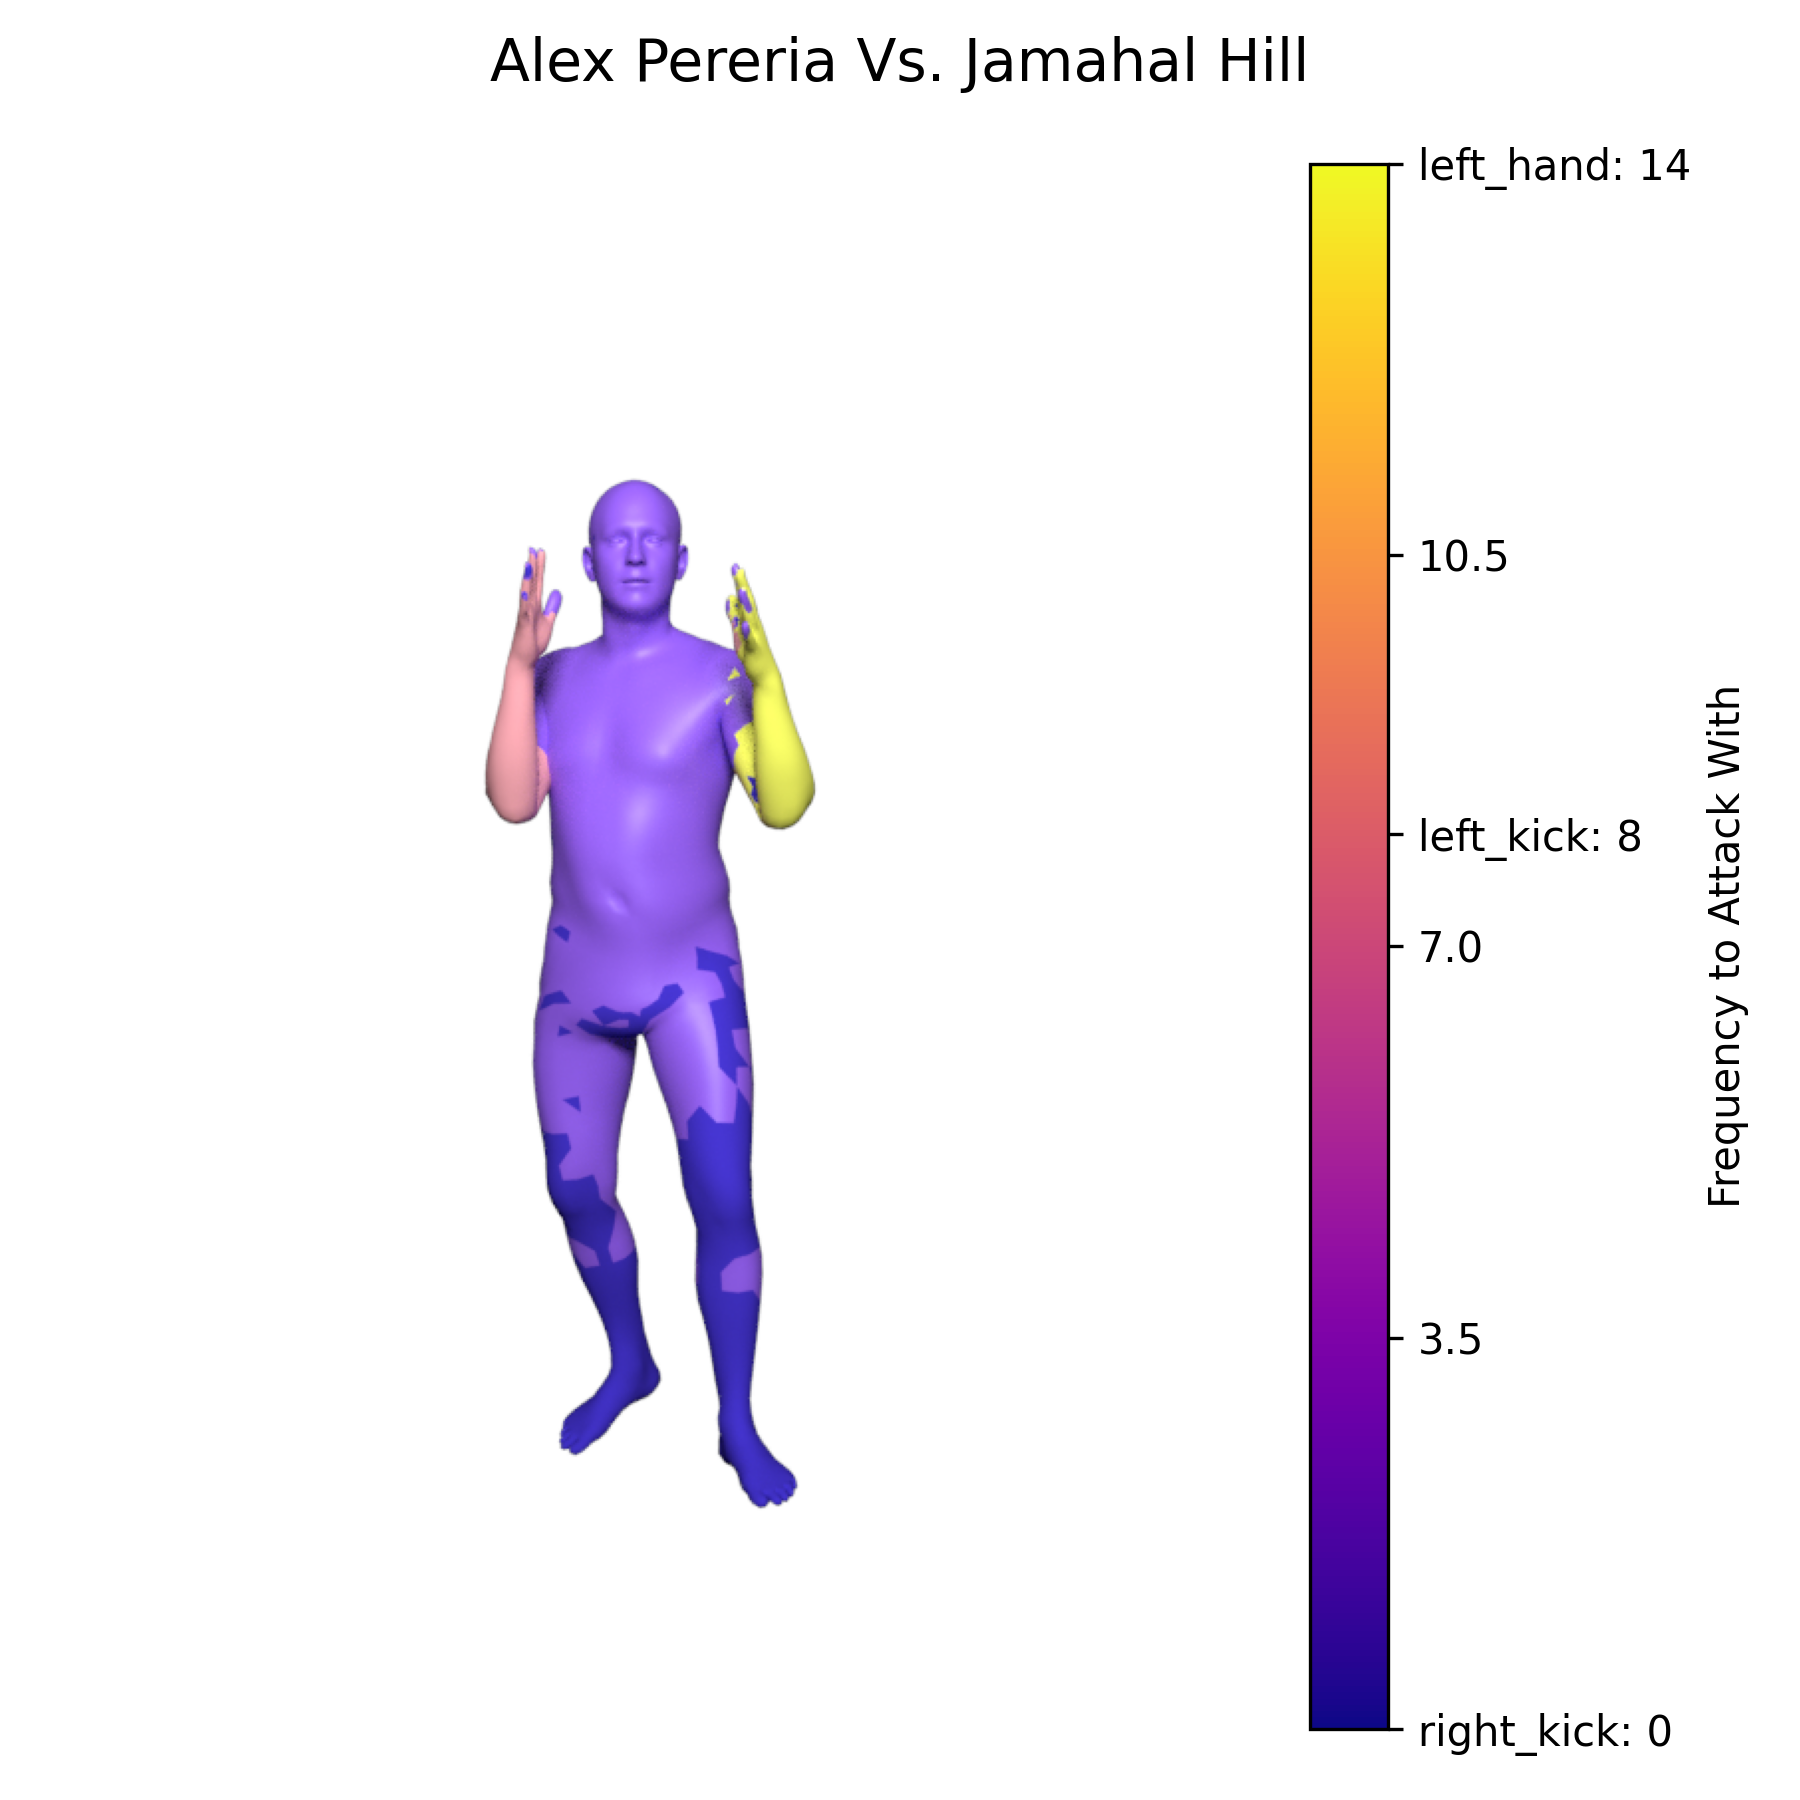
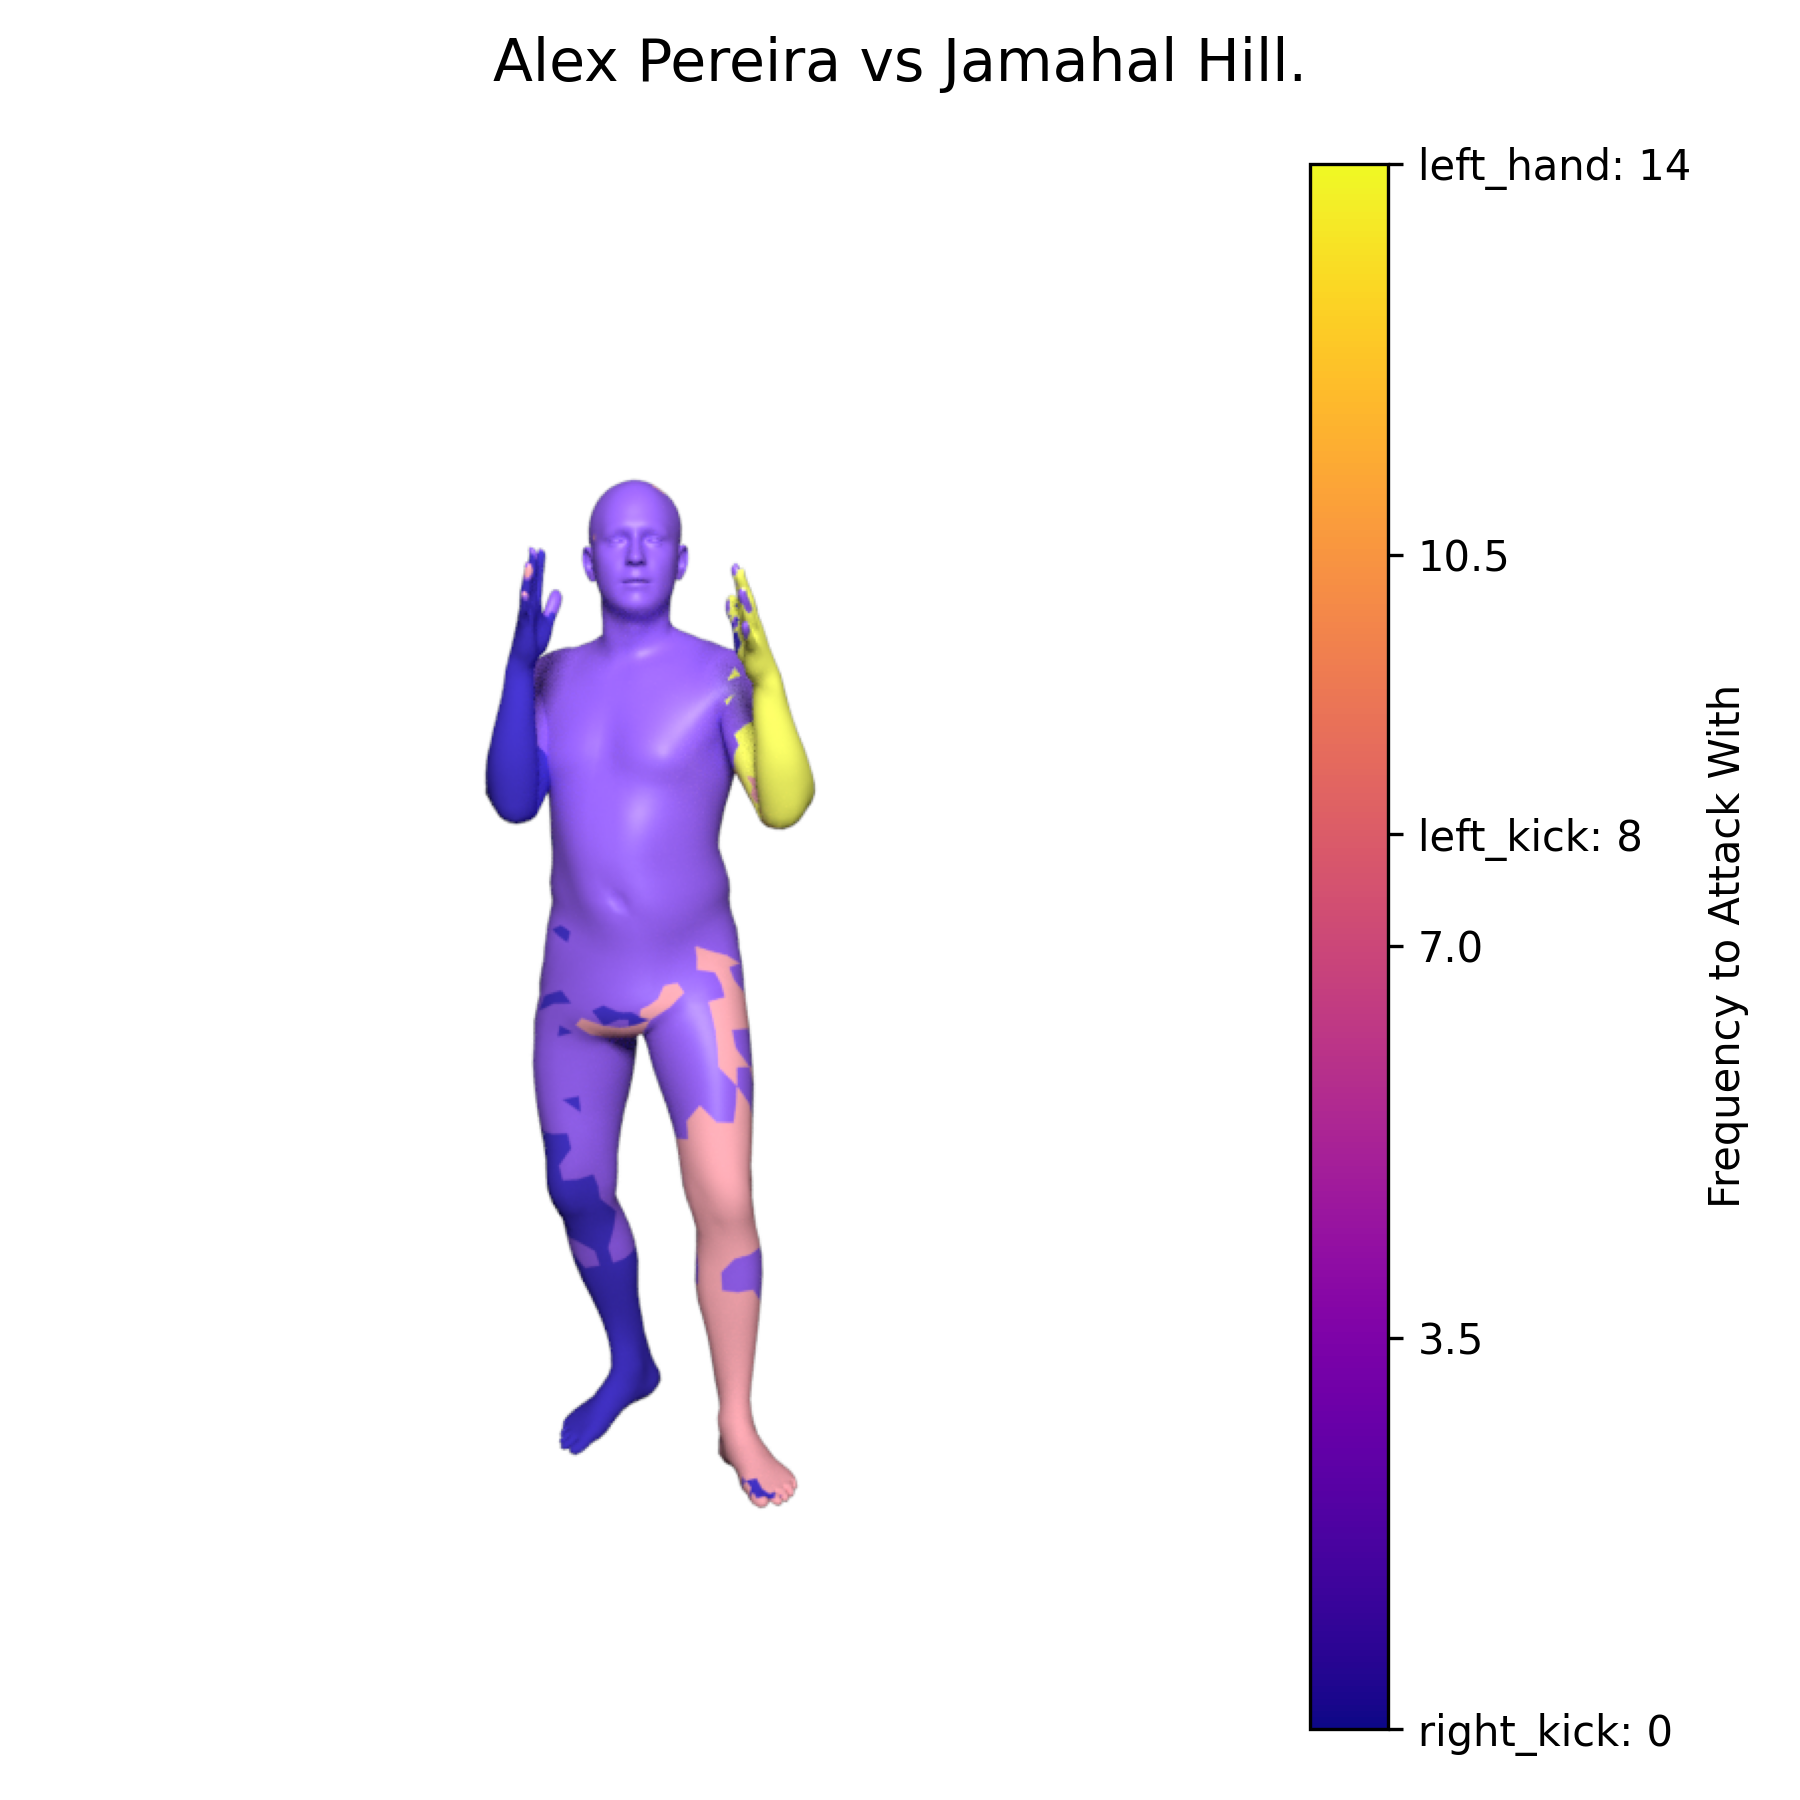
Little bit of cleanup

diff --git a/heatmap_wrapper.py b/heatmap_wrapper.py
@@ -5,10 +5,10 @@ import matplotlib.cm as cm
 import matplotlib.colors as colors
 import matplotlib.image as mpimg
 
-#manual only
+#manual onl
 ROW_TO_SELECT = 1
 OUTPUT = 'pictures/RoundtreeRender.png'
-TITLE = "Alex Pereria Vs. Khalil Roundtree Jr."
+TITLE = "Alex Pereira vs Khalil Roundtree Jr."
 
 filename = "datasets/Manual.csv"
 """Get Datasheet"""
@@ -69,7 +69,7 @@ ax.axis('off')
 quarters = [round(q, 2) for q in [0, maxv*0.25, maxv*0.5, maxv*0.75, maxv]]
 
 
-# Combine ticks
+# Combine labels
 all_ticks = sorted(set(limbs + quarters))
 
 label_dict = {v: name for v, name in zip(limbs, ['left_hand','right_hand','left_kick','right_kick'])}

diff --git a/heatmap_blender.py b/heatmap_blender.py
@@ -27,7 +27,7 @@ print("Args: ", args)
 """Naming some defaults"""
 blend_name = "ReadyPos2.blend"
 obj = bpy.data.objects['SMPLX-mesh-male']
-vg_names = ['left_elbow', 'left_ankle', 'right_elbow', 'right_ankle']
+vg_names = ['left_elbow', 'right_elbow', 'left_ankle', 'right_ankle']
 
 #if you're wondering why I'm using """ instead of comments,
 #it's because they show up in a really pretty font with the panda syntax theme

diff --git a/README.md b/README.md
@@ -1,6 +1,6 @@
-# Posing SMPLX Models
+# 3D Attack Use Visualizer
 
-Keeping this short for now(will write full docs later)
+This could also be used for other fighters
 
 ## First Push
 This is for a project in my data visualization class.
@@ -54,12 +54,13 @@ In order to show this the manual data I collected is utilized and the frequency 
 Although the use of legs and the right hand is kind of inconsistent. There is a clear trend for the use of the left hand(likely for jabs) to keep opponents defensive and prowl for attacks.
 
 ## To Run
-1. Create a similar dataset to [datasets/Manual.csv](datasets/Manual.csv)
-2. Setup the inputs at the top [heatmap_wrapper.py](heatmap_wrapper.py) and run the script
+1. Download [Blender](https://www.blender.org/download/) and ensure it is in PATH
+2. Create a similar dataset to [datasets/Manual.csv](datasets/Manual.csv)
+3. Setup the inputs at the top [heatmap_wrapper.py](heatmap_wrapper.py) and run the script
 ```python3 heatmap_wrapper.py```
 *I highly recommend running it in this directory because the paths are relative to it*
 
 The wrapper will setup the command needed to run the blender script. It will then take the script's image output and create colorbar for reference.
 
 ## TODO:
-Prototype data collection through vision(YOLO Keypoints or Openpose)
+Prototype data collection through vision(YOLO Keypoints or Openpose). This is in a seperate repo
